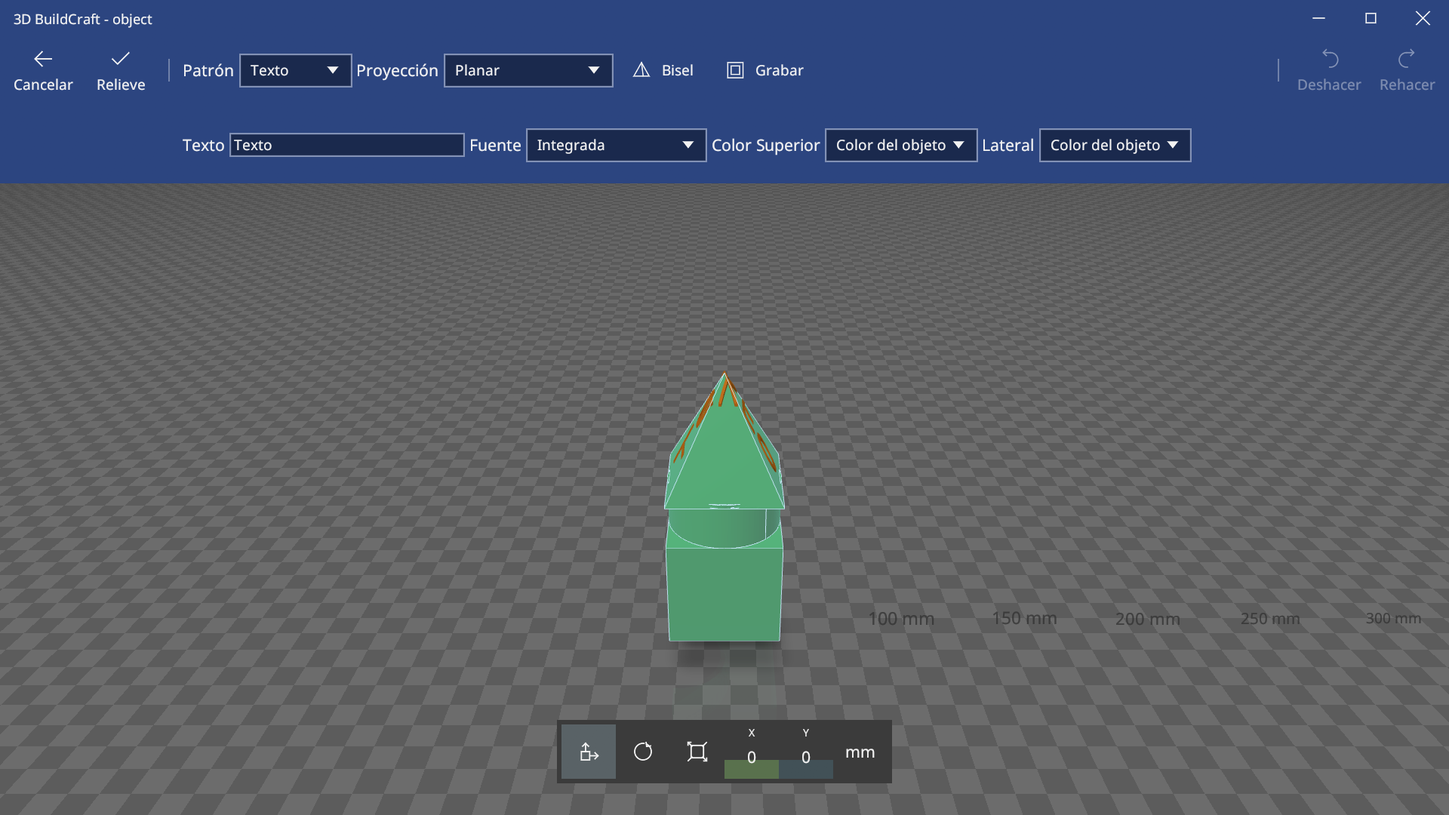
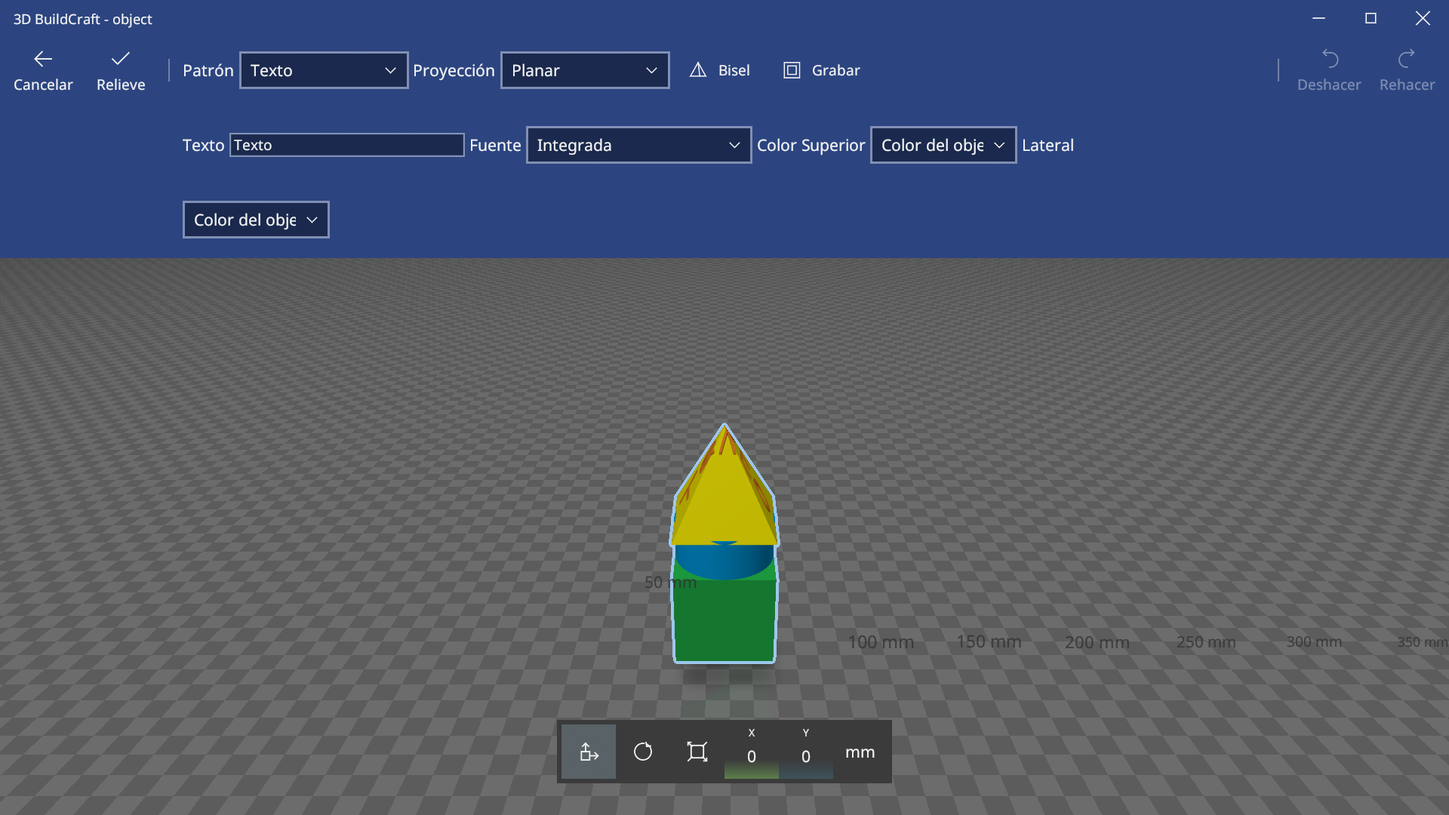
Docs: README and development notes for the current state; retake screenshots

diff --git a/docs/dev/architecture.md b/docs/dev/architecture.md
@@ -8,14 +8,20 @@ The library crate (`src/lib.rs`, no UI) holds the core; the binary adds UI and r
 |---|---|
 | `src/mesh.rs` | Indexed mesh, optional per-triangle `colors` (RGBA; alpha 0 = object colour; edits that rebuild a mesh, such as booleans, repair, cut and simplify, drop them), `face_region` (flood fill across edges whose angle is under 5° + coverage·85°; coverage 1 = whole object), welding, normals, AABB, transform, topology stats (same counters as `stlstats.py`), ray tests; `Mesh::shading(40°)` splits vertices at creases (flat faces stay flat) and returns crease edges |
 | `src/primitives.rs` | The 9 shapes at 40 mm, on the floor; cylinder matches the original's 240 vertices / 476 triangles. `custom(shape, lat, lon, width, height)`: box as a lat/lon cell grid, lon segments for round shapes, lat for box/sphere/torus; centred on the floor, proportions kept across |
-| `src/io/` | `stl`, `obj`, `ply`, `threemf`, `gltf_io`: read and write with the original's conventions |
+| `src/io/` | `stl`, `obj`, `ply`, `threemf`, `gltf_io`: read and write with the original's conventions. `ModelInfo` (title, designer, copyright, license terms, description) is read from and written to the 3MF metadata |
 | `src/scene.rs` | Objects (shared `Arc<Mesh>` + translation/rotation/scale + colour), selection, settle, duplicate, mirror, cut, simplify, resize, palette |
 | `src/history.rs` | Undo/redo by snapshots (cheap because meshes are shared), 100 steps |
 | `src/settings.rs` | TOML settings, 24 recent files, autosave to `<data>/AutoSaveFiles/{uuid}.buildcraft.3mf` |
 | `src/camera.rs` | Orbit camera, Z-up, rays and projection; default pitch 30°, frame margin 1.9 |
-| `src/render.rs` | wgpu pipelines (solid, x-ray, wireframe lines, checkerboard floor) in an egui paint callback; GPU meshes cached by `Arc` pointer. Look of the original: selection washed pale blue with crease-edge outline, soft shadow quad, mirrored reflection under a floor at 88 % opacity, light from front left |
+| `src/render/` | wgpu pipelines (solid, x-ray, wireframe lines, checkerboard floor) in an egui paint callback; GPU meshes cached by `Arc` pointer. Look of the original: selection washed pale blue with crease-edge outline, soft shadow quad, mirrored reflection under a floor at 88 % opacity, light from front left |
 | `src/texture.rs`, `src/texture_gen.rs` | Paint > Texture. `texture_gen`: 24 repeating textures (paper, linen, denim, burlap, water drops, crumpled paper, sandstone, gravel, three marbles, granite, plasters, felt, pearl, cork, three woods) and 6 white stencils, all procedural noise/polygons (no assets). `texture`: a grow-only registry gives each picture a layer number (max 64, 256 px square; files, camera frames and QR codes are squared into it); `Mesh::tex` holds a `FaceTex` (layer, sticker flag, 3 UVs) per triangle, kept by `transformed`/`flip`/`append`/`sub_mesh` and lost, like `colors`, by edits that rebuild the mesh; `apply_decal` (sticker: planar projection along the hit normal, per-pixel clipped in the shader) and `apply_box` (brush: box mapping per face along its dominant world axis). `render.rs` adds UV + packed layer per vertex, one `texture_2d_array` with mips (group 2, solid and x-ray pipelines only) and a live sticker preview uniform. Textures are not saved in files: `Object::to_model` paints tiled faces with the picture's average colour, stickers are dropped |
-| `src/app/` | egui UI styled after the original ([ADR-0003](decisions/ADR-0003-ui-copies-the-original.md)). `mod.rs`: state, `Action`s (applied after drawing), shortcuts, screenshot options. One file per area: `top_bar` (own title bar, decorations off, edge resize via `BeginResize`; tabs), `ribbon`, `tool_bar` (replaces the tabs while a tool is open: split, simplify, hollow, emboss, measure, Color paint, import units), `side_menu` (left menu; Settings and recent files as panels beside it), `selection` (strip with vertical title; tiles per object, stats in tooltip), `transform` (bottom bar fields with green/blue strip, a click makes a field current (green), a click on the current one opens the editor above the bar (Enter or Accept applies, Escape or a click elsewhere cancels; one undo step per value); strips fade up into the bar; rotate shows Roll/Pitch/Yaw, "deg." and a reset orientation button; scale has an underlined unit that switches to percent of the unscaled size (rotation and translation kept, scale 1); emboss size/depth/angle/offset live here), `viewport` (distance labels, handles from `gizmo` (one undo step per drag); Custom draws its grey preview first in front of a see-through scene, wireframe toggle), `start` (start screen while the scene is empty and nothing was picked: logo, More information, New scene, Open, last three files; hides tab selection and ribbon), `dialogs` (`black_box` draws the original's black question boxes: unsaved changes and recover; notices as cards; running jobs on top with a progress bar and a close button), `jobs` (loading files from the UI and repairing run on a thread; `Done` comes back through a channel and is applied by `collect_jobs`; repair skips objects whose mesh changed meanwhile; the bar shows steps done, or eases towards 90 % with time for loads; the agent calls `wait_jobs` so it answers after the work), `add_dialog` (modal Add: recent files as thumbnail tiles, Load object, Load image with size/depth/mode/invert and a preview that rebuilds when a drag ends; Camera opens the live webcam picture (`src/webcam.rs`, nokhwa, frames on a thread) and Capture sends it to Load image; the 3D library browses folders the user adds as libraries, saved in `Settings::libraries`, listed on a thread, removed by right-click; `--library dir` shows one without saving it), `thumbs` (background thread that renders thumbnails for recent files, library items and selection tiles; disk cache in the cache dir keyed by path + mtime; up to 600 in memory; jobs from an old page are skipped by generation), Color tool with a Coverage slider (paints the `face_region` under the click), `print` (3D print view replacing tabs, ribbon and panels: nav Printer/Material/Design/3D printer status/About; Printer lists the slicers `src/slicer.rs` finds or one picked by hand, and Print saves the scene as 3MF and opens it there; empty material list; Design sets units, scale %, width/height/depth and resets orientation/scale via `Scene::scale_all(k)`, uniform about the footprint centre, one undo step per edit from the size at its start; About shows objects, triangles, size, volume; black bar with cost not available, warnings for invalid or floating objects, undo/redo, Print, Order online disabled, Cancel; view buttons). `agent` (runs tool calls from the chat, stdio MCP or the local port through `apply`, see ADR-0004), `assistant_ui` (Menu > AI assistant page and the chat panel; `src/assistant.rs` holds the endpoint/agent loop), `gizmo` (selection handles fixed in 3D: move arrows, rotate rings (a drag turns by the angle swept round the ring centre on screen, summed frame by frame, about the world axis through the selection centre; rings seen nearly edge on fall back to sliding along the tangent), scale box; the hovered or dragged one is green; objects move only through them; one click selects, double click centres the view; pressing on the selection and dragging slides it on the floor; move cursor over handles and the selection). `texture_ui` (Texture tool: Selected menu with Load, Texture picker, Camera, QR, recents, grid and stencils; Sticker mode previews under the pointer and a click bakes it as one undo step; Edit sticker lifts the last one to drag/scale (wheel)/turn (Shift+wheel); Brush mode paints the face region under the pointer, a drag is one undo step; `--tool texture|texture-menu|texture-sticker|texture-edit|texture-brush`). `style.rs`: colours sampled from the original, tool bar widgets as the original's (`dropdown` opening a dark list over the field with the choice in purple, `unit_field` with a dimmed unit inside, `slider` with an upright handle and ticks), sizes in points from its 150 % screenshots (title 32, tabs 48, ribbon 48, tool bar 60, strip 45, menu 204, flyout 296); font Segoe UI if installed, else Noto Sans/Open Sans/DejaVu via `fontdb`. `icons.rs`: our own painter drawings, no Microsoft assets |
+| `src/app/` | egui UI styled after the original ([ADR-0003](decisions/ADR-0003-ui-copies-the-original.md)). `mod.rs`: state, `Action`s (applied after drawing), shortcuts, screenshot options. One file per area: `top_bar` (own title bar, decorations off, edge resize via `BeginResize`; tabs), `ribbon`, `tool_bar` (replaces the tabs while a tool is open: split, simplify, hollow, emboss, measure, Color paint, import units), `side_menu` (left menu; Settings and recent files as panels beside it), `selection` (strip with vertical title; tiles per object, stats in tooltip), `transform` (bottom bar fields with green/blue strip, a click makes a field current (green), a click on the current one opens the editor above the bar (Enter or Accept applies, Escape or a click elsewhere cancels; one undo step per value); strips fade up into the bar; rotate shows Roll/Pitch/Yaw, "deg." and a reset orientation button; scale has an underlined unit that switches to percent of the unscaled size (rotation and translation kept, scale 1); emboss size/depth/angle/offset live here), `viewport` (distance labels, handles from `gizmo` (one undo step per drag); Custom draws its grey preview first in front of a see-through scene, wireframe toggle), `start` (start screen while the scene is empty and nothing was picked: logo, More information, New scene, Open, last three files; hides tab selection and ribbon), `dialogs` (`black_box` draws the original's black question boxes: unsaved changes and recover; notices as cards; running jobs on top with a progress bar and a close button), `jobs` (loading files from the UI and repairing run on a thread; `Done` comes back through a channel and is applied by `collect_jobs`; repair skips objects whose mesh changed meanwhile; the bar shows steps done, or eases towards 90 % with time for loads; the agent calls `wait_jobs` so it answers after the work), `add_dialog` (modal Add: recent files as thumbnail tiles, Load object, Load image with size/depth/mode/invert and a preview that rebuilds when a drag ends; Camera opens the live webcam picture (`src/webcam.rs`, nokhwa, frames on a thread) and Capture sends it to Load image; the 3D library browses folders the user adds as libraries, saved in `Settings::libraries`, listed on a thread, removed by right-click; `--library dir` shows one without saving it), `thumbs` (background thread that renders thumbnails for recent files, library items and selection tiles; disk cache in the cache dir keyed by path + mtime; up to 600 in memory; jobs from an old page are skipped by generation), Color tool with a Coverage slider (paints the `face_region` under the click), `print` (3D print view replacing tabs, ribbon and panels: nav Printer/Material/Design/3D printer status/About; Printer lists the slicers `src/slicer/` finds or one picked by hand, with the slicer's printer and print profiles; Print saves the scene as 3MF with the chosen printer, print profile and a filament per object and painted face, and opens it there; Material maps each scene colour to a filament slot of the chosen printer (colours fully covered by paint are hidden); Design sets units, scale %, width/height/depth and resets orientation/scale via `Scene::scale_all(k)`, uniform about the footprint centre, one undo step per edit from the size at its start; About shows objects, triangles, size, volume; black bar with cost not available, warnings for invalid or floating objects, undo/redo, Print, Cancel. 3D printer status is a window with the slicer's printers and their live state; `SceneColors` caches the scene's colour list by mesh; view buttons). `agent` (runs tool calls from the chat, stdio MCP or the local port through `apply`, see ADR-0004), `assistant_ui` (Menu > AI assistant page and the chat panel; `src/assistant.rs` holds the endpoint/agent loop), `gizmo` (selection handles fixed in 3D: move arrows, rotate rings (a drag turns by the angle swept round the ring centre on screen, summed frame by frame, about the world axis through the selection centre; rings seen nearly edge on fall back to sliding along the tangent), scale box; the hovered or dragged one is green; objects move only through them; one click selects, double click centres the view; pressing on the selection and dragging slides it on the floor; move cursor over handles and the selection). `texture_ui` (Texture tool: Selected menu with Load, Texture picker, Camera, QR, recents, grid and stencils; Sticker mode previews under the pointer and a click bakes it as one undo step; Edit sticker lifts the last one to drag/scale (wheel)/turn (Shift+wheel); Brush mode paints the face region under the pointer, a drag is one undo step; `--tool texture|texture-menu|texture-sticker|texture-edit|texture-brush`). `style.rs`: colours sampled from the original, shared widgets (`dropdown`/`list`: every drop-down in the app, the list opens below the field without the current choice, above it when there is no room, scrolls past 12 rows; `text_field` with a clear × while focused; `unit_field` with a dimmed unit inside, `slider` with an upright handle and ticks), sizes in points from its 150 % screenshots (title 32, tabs 48, ribbon 48, tool bar 60, strip 45, menu 204, flyout 296); font Segoe UI if installed, else Noto Sans/Open Sans/DejaVu via `fontdb`. `icons.rs`: our own painter drawings, no Microsoft assets |
+| `src/slicer/` | `detect` (installed slicers, native or Flatpak, and opening a 3MF in one), `profiles` (printer, print and filament profiles read from the slicer's config folder, read-only, off the UI thread), `host_files` (reading those folders from inside the Flatpak sandbox in one host call), `status` (printers configured in the slicer and their state from Moonraker over HTTP, port 7125, every 5 s on a thread; read-only queries). Access codes and API keys found in the profiles are never shown or logged |
+| `src/paper.rs` | Print on paper: a picture of the model, a one-page A4 PDF (JPEG, hand-written), and the system print dialog: the XDG desktop portal on Linux (`ashpd`), the picture's print verb on Windows. `src/app/paper.rs` runs it as a job |
+| `src/host.rs` | Running programs on the host when the app is in a Flatpak (`flatpak-spawn --host`) |
+| `src/assistant.rs`, `src/mcp.rs` | The in-app assistant (chat with an OpenAI- or Anthropic-compatible endpoint, or an installed agent) and the MCP server (JSON-RPC over stdio or a local port) with the app's tools; see [ADR-0004](decisions/ADR-0004-ai-agent-can-drive-the-tools.md) |
+| `src/webcam.rs` | Camera frames read on a background thread (Add > Camera, texture camera source) |
+| `src/snapping.rs` | Bounding-box edge and centre alignment while moving, with guides |
 | `src/library.rs` | Local 3D libraries: `list` (subfolders that contain models, then models) and `search` (by name, depth 8, sorted then capped at 500 results) |
 | `src/thumbnail.rs` | CPU rasteriser for thumbnails: 2× supersampled, per-face colours, no GPU |
 | `src/image3d.rs` | Load image: Relief (height map, dark is high, 0.6 mm base, at most 160 samples a side, optional invert) or Outline (dark part traced with Emboss's image tracing and extruded) |
@@ -45,7 +51,11 @@ Screenshots of a known state: `cargo run --release -- --screenshot out.png` with
 
 ## Integrations
 
-None at runtime. An MCP tool interface for AI agents is proposed in [ADR-0004](decisions/ADR-0004-ai-agent-can-drive-the-tools.md). Native file dialogs through `rfd`; config and data folders through `directories`.
+- Slicers: opened as a host program with a 3MF; their config folders are only read.
+- Printers: Moonraker HTTP status queries (read-only), through the hosts the slicer has configured.
+- AI: model endpoints over HTTP, local agents through MCP ([ADR-0004](decisions/ADR-0004-ai-agent-can-drive-the-tools.md)); keys in the system keychain.
+- Print on paper: the XDG print portal on Linux.
+- Native file dialogs through `rfd`; config and data folders through `directories`.
 
 ## Hubs
 
@@ -61,11 +71,11 @@ None at runtime. An MCP tool interface for AI agents is proposed in [ADR-0004](d
   - One colour per object on import (PLY first vertex colour, glTF first primitive material); 3MF per-triangle colours are kept (`Mesh::colors`); other formats still get one colour.
   - OBJ/PLY polygons are fan-triangulated, so concave n-gons come out wrong.
   - The cut plane is horizontal only (no rotation).
-  - Not implemented: textures, real printing (phase 3; the 3D print view lists no printers).
+  - Not implemented: saving textures in files, slicing and sending jobs from the app (the slicer does it). Printer status speaks Moonraker only.
   - Area paint is lost by any edit that rebuilds the mesh (booleans, repair, cut, simplify, smooth, hollow, emboss).
   - The thumbnail disk cache is never pruned.
   - Emboss limits: the cylinder/sphere axis is the bbox centre (the user cannot choose it); very thin objects (radius < 0.5 mm) may give a self-intersecting solid; image detail is capped at 256 px; one colour per object part (no per-face colour).
   - Emboss on the camel (1.4M triangles): preview 77–136 ms, 130–220 ms with bevel (UI thread). The orange preview is keyed to the selected object's id, mesh and transform, so undo or a selection change rebuilds it.
   - Solid edits (`src/solid.rs`) run on the UI thread with no progress or cancel. Smooth: camel (1.4M triangles) took 5 s, hence the 250k cap. Hollow: voxel = max(wall/4, longest side/160) and the inner surface is pulled in 2.7 voxels, so big models get thicker walls than asked (camel at 1 mm: ~4 mm wall, 2.7 s); Minkowski erosion was rejected (5 s on a 6k-triangle torus, minutes on the camel). Extrude down: ms on ordinary models, ~50 s on the camel (7,874 patches); a patch whose projection overlaps itself (underside of a helix) gives an invalid skirt.
-- CI builds and tests on Windows, Ubuntu and macOS; the GUI itself has only been run on Linux.
+- Release packages (MSI, zip, Flatpak, AppImage) are built locally with the scripts in `packaging/`; the GUI itself has been run on Linux and the Windows build in Wine only.
 - Library error details (`src/io/`, `src/boolean.rs`, `src/solid.rs`) are English only, also in the Spanish UI.

diff --git a/README.md b/README.md
@@ -1,64 +1,60 @@
 # 3D BuildCraft
 
-Build, repair and prepare 3D models for printing. Runs on Windows, Linux and macOS, and looks like Microsoft 3D Builder: its own title bar, tabs, ribbon, tool bars, side menu, selection strip and bottom bar.
+Build, repair, paint and prepare 3D models for printing. A Rust (egui + wgpu) desktop app for Windows and Linux that looks and works like Microsoft 3D Builder: its own title bar, tabs, ribbon, tool bars, side menu, selection strip and bottom bar.
 
 ![Edit tab](docs/screenshots/editar.png)
 
+| | |
+|---|---|
+| ![Texture tool](docs/screenshots/textura.png) | ![3D print: printer](docs/screenshots/impresion-3d.png) |
+| ![Emboss](docs/screenshots/relieve.png) | ![AI assistant](docs/screenshots/asistente-chat.png) |
+
 ## Download
 
-Each release on GitHub has a package per system:
+[Releases](https://github.com/Nico2433/3D-BuildCraft/releases) are pre-releases built from the `development` branch, with a package per system:
 
-- Windows: `buildcraft3d-windows-x64.msi`; run the installer. Installing a newer (or rebuilt same) version updates the existing installation. Remove it through Settings > Apps.
-- macOS (Apple silicon and Intel, coming in a later release): `buildcraft3d-macos-universal.zip` with `3D BuildCraft.app`. It is not signed: the first time, right-click it and choose Open, or run `xattr -dr com.apple.quarantine "3D BuildCraft.app"`.
-- Linux: `buildcraft3d-linux-x86_64.flatpak`, installed with `flatpak install --user buildcraft3d-linux-x86_64.flatpak` (it needs the GNOME 51 runtime from Flathub).
+- **Windows:** `buildcraft3d-windows-x64.msi` is the installer. A newer version upgrades the existing installation; remove it through Settings > Apps. `buildcraft3d-windows-x64.zip` is the portable exe.
+- **Linux, Flatpak:** `flatpak install --user buildcraft3d-linux-x86_64.flatpak` (needs the GNOME 51 runtime from Flathub).
+- **Linux, AppImage:** `buildcraft3d-linux-x86_64.AppImage`, a single file for glibc 2.31 or newer (Ubuntu 20.04 and later). Make it executable with `chmod +x` and run it.
 
-Packages are built by `.github/workflows/release.yml` when a `v*` tag is pushed.
+macOS builds are planned but not published yet.
 
-## Run
+## What it does
 
-```bash
-cargo run --release -- [model.3mf|.stl|.obj|.ply|.gltf|.glb]
-```
+**Files**
+- Open and save 3MF, STL, OBJ (+MTL), PLY, glTF and GLB; drag files onto the window. Unitless formats (STL, OBJ, PLY) ask for the units.
+- Undo/redo, autosave with recovery after a crash, recent files, start screen.
+- About the model: title, designer, copyright, license terms and description, kept in the 3MF metadata. The window title follows the model title.
 
-## Screenshots
+**Building**
+- Shapes: cube, cylinder, pyramid, cone, sphere, hexagon, wedge, torus, tetrahedron (40 mm), and Custom with subdivisions, size, roundness and a wireframe option.
+- Add dialog: recent files as thumbnails, local 3D libraries (your own folders, browsed and searched with thumbnails), Load image as a height relief or an outline, Camera (a webcam photo).
+- Select (click, Ctrl/Shift for more, box selection), move, rotate and scale with handles or exact values in the bottom bar. Objects snap to each other's edges and centres with alignment guides; hold Alt while dragging to turn snapping off.
+- Duplicate, copy, cut, paste, delete, group, put on floor, mirror, measure distances.
+- Booleans (merge, intersect, subtract), Split with a movable and rotatable cut plane, Simplify, Smooth, Hollow, Extrude down.
+- Emboss text (bundled or installed font), a shape or an image onto an object: planar, cylindrical or spherical, raised or engraved, with bevel and separate top and side colours.
+- Open or non-manifold meshes are flagged with a red box and can be repaired.
 
-The window can save itself as a PNG and quit, which is how the pictures in `docs/screenshots/` are made (the original's screenshots were at 1920×1080 and 150 %):
+**Painting**
+- Colour per object, or paint areas with a Coverage slider (kept in 3MF).
+- Material: none, simple, realistic or translucent, standard colours and an eyedropper.
+- Texture: 24 procedural textures and 6 stencils, your own pictures, camera frames and QR codes; place them as stickers or paint them with a brush.
 
-```bash
-cargo run --release -- model.3mf --select-all --lang es --size 1920x1080 --zoom 1.5 --tab edit --screenshot shot.png
-```
+**Printing**
+- 3D print: detects installed slicers (OrcaSlicer, PrusaSlicer, Bambu Studio, SuperSlicer, Cura, also as Flatpaks) or one you pick. Choose the slicer's printer and print profile, map each scene colour to a filament slot, set the size, then Print opens the scene as a 3MF in the slicer with those choices.
+- 3D printer status: the printers set up in the slicer with state, progress, file and temperatures, refreshed every 5 s (Klipper/Moonraker printers).
+- Print on paper through the system's own print dialog (the desktop portal on Linux, Flatpak included).
 
-`--tab insert|object|edit|paint|view|help`, `--tool cut|simplify|hollow|emboss|measure|paint|paint-colors|paint-more|texture|texture-menu|texture-sticker|texture-edit|texture-brush|custom|camera|ai|chat|unsaved|repairing|grid|recover|start|bar-edit|add|print|print-material|print-design|print-about` `--mode move|rotate|scale` and `--menu` open a given state.
-
-## Test
-
-```bash
-cargo test
-```
-
-Linux needs the usual windowing libraries (`libxkbcommon`, `wayland`, GTK 3 for file dialogs).
-
-## What works
-
-- Open and save 3MF, STL, OBJ (+MTL), PLY, glTF and GLB; drag files onto the window.
-- Import asks for the file units when the format has none (STL, OBJ, PLY).
-- Primitives: cube, cylinder, pyramid, cone, sphere, hexagon, wedge, torus, tetrahedron (40 mm), and Custom with subdivisions, size and roundness.
-- Add dialog with recent files and local 3D libraries (folders you add, browsed by subfolder with search and thumbnails); Load image as a height relief or an outline; paint by area with Coverage (kept in 3MF); Camera (webcam photo into Load image); 3D print view (material, design with scale and size, about) whose Print opens the scene as 3MF in the chosen slicer (PrusaSlicer, OrcaSlicer, Bambu Studio, SuperSlicer or Cura, found automatically or picked by hand).
-- Select (click, Ctrl/Shift for more), move by dragging, exact move/rotate/size from the bottom bar.
-- Duplicate, copy, cut, paste, delete, put on floor, mirror, merge, measure distance, colours.
-- Undo/redo, autosave with recovery after a crash, recent files, settings.
+**Interface**
 - View toggles: shading, colours, smoothing, wireframe, floor grid, x-ray.
-- English and Spanish UI (follows the system language; change it in Settings).
-- Meshes that are open or non-manifold are flagged with a red box and can be repaired.
-- Booleans (merge, intersect, subtract), plane cut and simplify.
-- Smooth, hollow (minimum wall thickness) and extrude down.
-- Emboss text (bundled or system font), a shape or an image onto an object: planar, cylindrical or spherical projection, raised or engraved, bevel, separate top and side colours; drag it on the model to place it, Shift+drag to turn it.
-
-Camera: left drag on empty space orbits, right or middle drag pans, wheel zooms.
+- English and Spanish (follows the system language; change it in Settings).
+- Camera: left drag on empty space orbits, right or middle drag pans, wheel zooms.
 
 ## AI assistant
 
-Menu → AI assistant turns it on and picks what it talks to: an installed agent (Claude Code or Codex, found on PATH), a command of your own, or a model endpoint (OpenAI-compatible such as Ollama, LM Studio, OpenAI or OpenRouter, or Anthropic-compatible). API keys go to the system keychain, never to the settings file. The chat opens from the button next to 3D print; the assistant works on the open scene with the app's tools (read the scene, select, insert shapes, move/rotate/size, booleans, repair, smooth, hollow, simplify, split, emboss text, colour, open, save, print, screenshot), each change shows as it happens and is an undo step.
+The assistant button in the top bar opens a chat with Chat and Settings tabs. Settings turns the assistant on and picks what it talks to: an installed agent (Claude Code or Codex, found on PATH), a command of your own, or a model endpoint (OpenAI-compatible such as Ollama, LM Studio, OpenAI or OpenRouter, or Anthropic-compatible). API keys go to the system keychain, never to the settings file.
+
+The assistant works on the open scene with the app's tools (read the scene, select, insert shapes, move/rotate/size, booleans, repair, smooth, hollow, simplify, split, emboss text, colour, open, save, print, screenshot). Each change shows as it happens and is an undo step.
 
 The same tools are served over MCP for agents outside the app. Turn on "External agents (MCP)" and add the command to your agent, for example with Claude Code:
 
@@ -70,12 +66,46 @@ With the app open, `--mcp` attaches to that window through a local port (127.0.0
 
 ## Not yet
 
-Textures; slicing and sending to the printer from the app (the slicer does it for now).
+- Slicing and sending jobs to the printer from the app; the slicer does it.
+- Printer status reads Moonraker only (OctoPrint, PrusaLink and stock firmware show as offline).
+- Textures are not saved in files: tiled faces are saved with the texture's average colour, stickers are dropped.
+- Print on paper on Windows is untested; no macOS packages yet.
+
+## Build and run
+
+```bash
+cargo run --release -- [model.3mf|.stl|.obj|.ply|.gltf|.glb]
+```
+
+```bash
+cargo test
+```
+
+Linux needs the usual windowing libraries (`libxkbcommon`, `wayland`, GTK 3 for file dialogs).
+
+Packages are built locally with the scripts in `packaging/`:
+
+- `packaging/windows/build-msi.sh`: Windows exe and MSI from Linux (cargo-zigbuild, zig, Python 3, msitools/wixl).
+- `packaging/flatpak/io.github.nico2433.BuildCraft3D.yml`: Flatpak manifest for `flatpak-builder`.
+- `packaging/appimage/build-appimage.sh`: AppImage linked against glibc 2.31 (cargo-zigbuild, zig, appimagetool).
+
+## Screenshots
+
+The window can save itself as a PNG and quit, which is how the pictures in `docs/screenshots/` are made:
+
+```bash
+cargo run --release -- model.3mf --select-all --lang es --size 1920x1080 --zoom 1.5 --tab edit --screenshot shot.png
+```
+
+Options that open a given state:
+
+- `--tab insert|object|edit|paint|view|help`, `--mode move|rotate|scale`, `--menu`, `--select-all`
+- `--tool` with a tool: `add`, `custom`, `camera`, `cut`, `simplify`, `smooth`, `hollow`, `emboss`, `measure`, `settle`, `paint`, `paint-colors`, `paint-more`, `material`, `material-type`, `texture`, `texture-menu`, `texture-sticker`, `texture-edit`, `texture-brush`
+- `--tool` with a page or dialog: `print-printer`, `print-material`, `print-design`, `print-status`, `print-about`, `settings`, `about`, `ai`, `chat`, `unsaved`, `recover`, `repairing`, `grid`, `bar-edit`
+- `--image <file>` opens Load image, `--library <folder>` a 3D library
 
 Development notes (architecture, decisions, progress log and the study of the original app) are in [docs/dev](docs/dev/README.md).
 
 ## License
 
 MIT. See [LICENSE](LICENSE). 3D BuildCraft is an independent project, not affiliated with or endorsed by Microsoft; "3D Builder" is a trademark of Microsoft.
-
-Build the Windows MSI on Linux with `packaging/windows/build-msi.sh` (requires cargo-zigbuild, zig, Python 3 and msitools/wixl). While moving objects, bounding-box edges and centres snap to other objects with cyan alignment guides. Hold Alt after starting a drag to disable snapping (Alt at press starts box selection).

diff --git a/docs/dev/log/2026-11-01.md b/docs/dev/log/2026-11-01.md
@@ -1,0 +1,17 @@
+# 2026-10-29 to 2026-11-01
+
+Releases 0.1.8 to 0.1.12, all pre-releases from `development`. New work lands on `experimental` first and is merged into `development` for a release.
+
+- 0.1.8: one shared hover/pressed/selected style for panes, menu and ribbon; Chat and Settings tabs in the assistant panel; the separate AI menu entry dropped; power-saving mode while minimized; Simplify keeps at least four faces.
+- 0.1.9–0.1.10: silhouette-only selection outline from a cached mask; no idle repaints, smaller GPU heaps and a 60 fps cap instead of V-Sync; Windows exe icon.
+- 0.1.11: Measure tool with arrow markers and a live distance bar; Split with a movable, rotatable cut plane and a clipped live preview; Smooth with a live preview; Material tool (none, simple, realistic, translucent, eyedropper); Texture tool (procedural textures and stencils, stickers, brush, QR, picture and camera sources). Face textures and colours survive split, booleans and smooth.
+- Refactors: `render` and `viewport` split into module folders, actions and launch options out of `app/mod.rs`, emboss outlines in `emboss/outlines.rs`, shared Apply/Cancel checkpoint for interactive tools.
+- 0.1.12:
+  - Slicers: detected also as Flatpaks; printer, print and filament profiles read from the slicer's config (read-only, off the UI thread). The 3MF sent to the slicer carries the printer, the print profile and a filament per object and painted face.
+  - 3D printer status window: the slicer's printers with live Moonraker state, every 5 s. The online print service and the Order online, Rate this app and Feedback menu entries were removed.
+  - About the model: 3MF metadata editor; the window title follows the model title.
+  - Print on paper with the system's own print dialog (XDG portal on Linux).
+  - One drop-down component everywhere (list below the field, without the current choice); a clear × in focused text fields; the scene's colour list cached instead of rebuilt each frame.
+  - AppImage package (glibc 2.31 via cargo-zigbuild). Packages are built locally with the scripts in `packaging/`.
+  - Hotfix: the AI assistant button stays in the top bar when the assistant is off and opens on its Settings tab.
+- State: 329 tests pass; fmt and clippy clean. Screenshots in `docs/screenshots/` retaken for this state.

diff --git a/docs/dev/README.md b/docs/dev/README.md
@@ -8,7 +8,8 @@ Notes kept while building 3D BuildCraft, for anyone who wants to work on it.
   [ADR-0002 GPT reviews, Claude writes code](decisions/ADR-0002-gpt-reviews-claude-writes-code.md),
   [ADR-0003 the UI copies the original](decisions/ADR-0003-ui-copies-the-original.md),
   [ADR-0004 an AI agent can drive the tools](decisions/ADR-0004-ai-agent-can-drive-the-tools.md).
-- Progress log: [2026-10-27](log/2026-10-27.md), [2026-10-28](log/2026-10-28.md).
+- Progress log: [2026-10-27](log/2026-10-27.md), [2026-10-28](log/2026-10-28.md),
+  [2026-10-29 to 2026-11-01](log/2026-11-01.md).
 - The original Microsoft 3D Builder, as studied before the port (behaviour, file formats,
   UI measurements; no Microsoft code or assets): [overview](original/overview.md),
   [architecture](original/architecture.md), [data model](original/data-model.md),
@@ -21,8 +22,11 @@ of 3D BuildCraft.
 
 ## Working on it
 
-- Branches: `main` is stable, work happens on `development`; pull requests go to `development`.
+- Branches: `main` is stable, `development` is what releases are built from, and new work
+  lands on `experimental` first; pull requests go to `development`.
 - Before a commit: `cargo fmt`, `cargo clippy --all-targets -- -D warnings`, `cargo test`.
+- Packages: `packaging/windows/build-msi.sh` (MSI and exe), the Flatpak manifest in
+  `packaging/flatpak/`, `packaging/appimage/build-appimage.sh`; see the README.
 - Code, comments and UI strings are in English; the Spanish translation is the table in
   `src/i18n.rs`, and a test fails when a UI string has no entry.
 - Screenshots for comparing with the original: `--screenshot out.png --size 1920x1080 --zoom 1.5`
